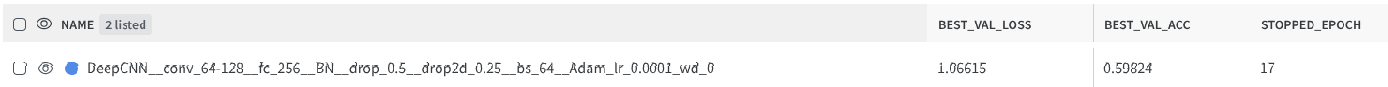
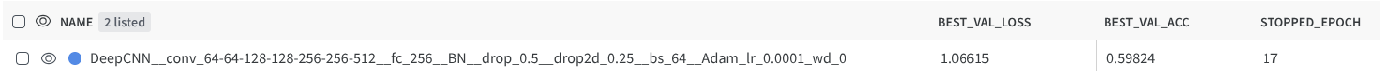
update

diff --git a/README.md b/README.md
@@ -388,7 +388,7 @@ MultiLayerFC__bs_64__hs_[512, 512, 256, 128]__activation_ReLU__optimizer_Adam_lr
 
 ![alt text](./images/deepcnn.png)
 
-მართალი ყოფილა ის ფაქტი, რომ scaling შველის. თითქმის 60% გახდა ვალიდაციის accuracy.
+ანუ მართალი ყოფილა ის ფაქტი, რომ scaling შველის. თითქმის 60% გახდა ვალიდაციის accuracy უბრალოდ იმის ხარჯზე, რომ layer-ების რაოდენობა გავზარდეთ ჩვენს მოდელში, დამატებით ისეთი არაფერი. რადგან Conv Layer-ებისდ დამატებამ უშველა, ვიფიქრე, MLP ნაწილსაც გავართულებ და დავამატებ კიდევ ერთ ლეიერს-თქო, მაგრამ ოდნავ გაუარესდა შედეგი: `val_acc=0.59754`-ზე ჩამოვარდა. 
 
 
  